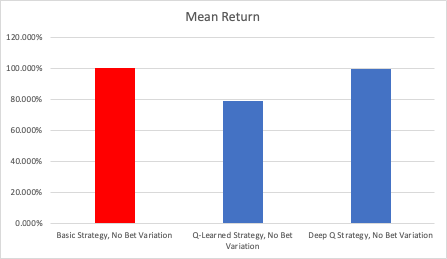
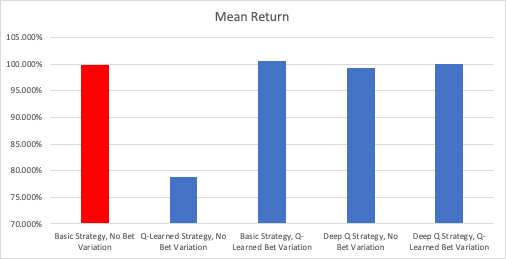
finished readme

diff --git a/test_blackjack.py b/test_blackjack.py
@@ -1,7 +1,5 @@
-from time import sleep
-
 from basic_strategy import BasicStrategy
-from blackjack import BlackjackGame
+from blackjack import BlackjackGame, BlackjackStrategy
 from deep_q import DeepQBlackjack
 from q_learning import QBet, QStrategyStdBet
 from scipy.stats import describe
@@ -24,65 +22,54 @@ game.play(num_hands=2)
 print("\n\n")
 
 print("As a benchmark, we implemented basic strategy, the best possible blackjack strategy.")
-print("Here are it's results over 5 100,000 hand games")
 print("Basic Strategy, No Bet Size Adjustment\n------")
 
 game = BlackjackGame(strategy=BasicStrategy(), verbose=False)
 results = []
 initial_bankroll = 1_000_000
-for _ in range(20):
+for _ in range(5):
     res = game.play(num_hands=100_000, initial_bankroll=initial_bankroll)
-    results.append((res[0] - initial_bankroll) / res[1])
-    print("Return:", (res[0] - initial_bankroll) / res[1])
-print(describe(results))
+    results.append(100 * (1 + ((res[0] - initial_bankroll) / res[1])))
+    print("Return: {:.4f}%".format(100 * (1 + ((res[0] - initial_bankroll) / res[1]))))
 
 print("As you can see, it is extremely close to break-even. This is possible due to a few quirks "
       "in our Blackjack implementation (we applied an approximation for split) as well as the "
       "fact that we pay blackjack out 3 to 2.")
 
+print(describe(results))
 print("\n\n")
 
-print("Next, we tried using Q-learning to select bet sizes based on the \"count\" of the shoe.")
-print("Here are it's results over 5 100,000 hand games")
-print("Basic Strategy, Q-Learned Bet Size Adjustment\n------")
+print("Basic Strategy, Q-Learned Bet Size Adjustment (trained for 120s)\n------")
 q_bet = QBet()
-q_bet.q_learn(4)
-game = BlackjackGame(strategy=q_bet, verbose=False, num_decks=4)
+q_bet.q_learn(2)
+game = BlackjackGame(strategy=q_bet, verbose=False, num_decks=2)
 results = []
 initial_bankroll = 1_000_000
-for _ in range(20):
+for _ in range(5):
     res = game.play(num_hands=100_000, initial_bankroll=initial_bankroll)
-    results.append((res[0] - initial_bankroll) / res[1])
-    print("Return:", (res[0] - initial_bankroll) / res[1])
-print(describe(results))
+    results.append(100 * (1 + ((res[0] - initial_bankroll) / res[1])))
+    print("Return: {:.4f}%".format(100 * (1 + ((res[0] - initial_bankroll) / res[1]))))
 
+print(describe(results))
 print("\n\n")
 
-print("Then, we tried to use Q-learning to see if it could come up with a strategy competitive "
-      "with the performance of basic strategy.")
-print("Here are it's results over 5 100,000 hand games")
-print("Q-Learned Strategy, No Bet Size Adjustment\n------")
-q_bet = QStrategyStdBet()
-q_bet.q_learn(4)
-game = BlackjackGame(strategy=q_bet, verbose=False, num_decks=4)
+print("Q-Learned Strategy (10 seconds), No Bet Size Adjustment\n------")
+q_learn = QStrategyStdBet()
+q_learn.q_learn(2)
+game = BlackjackGame(strategy=q_learn, verbose=False, num_decks=2)
 results = []
 initial_bankroll = 1_000_000
-for _ in range(20):
+for _ in range(5):
     res = game.play(num_hands=100_000, initial_bankroll=initial_bankroll)
-    results.append((res[0] - initial_bankroll) / res[1])
-    print("Return:", (res[0] - initial_bankroll) / res[1])
+    results.append(100 * (1 + ((res[0] - initial_bankroll) / res[1])))
+    print("Return: {:.4f}%".format(100 * (1 + ((res[0] - initial_bankroll) / res[1]))))
+
 print(describe(results))
-
-print("As you can see, it struggled to beat basic strategy. It's likely that the state space was "
-      "too large for Q-Learning to be effective.")
-
 dqn = DeepQBlackjack()
 results = []
 dqn.load_model("trained-dqn-model.h5")
 
 print("\n\n")
-print("Finally, we used Deep-Q learning with a neural network.")
-print("Here are it's results over 5 50,000 hand games")
 print("The model is pre-trained, and this runs very quickly on my M1 Max laptop, "
       "but for some reason, it takes forever to run on the zoo, perhaps due to worse hardware "
       "acceleration support.")
@@ -90,14 +77,34 @@ print("Deep-Q Strategy, No Bet Size Adjustment\n------")
 
 game = BlackjackGame(dqn, num_decks=2, verbose=False)
 initial_bankroll = 1_000_000
-for _ in range(20):
+for _ in range(5):
     res = game.play(num_hands=100_000, initial_bankroll=initial_bankroll)
-    results.append((res[0] - initial_bankroll) / res[1])
-    print("Return:", (res[0] - initial_bankroll) / res[1])
+    results.append(100 * (1 + ((res[0] - initial_bankroll) / res[1])))
+    print("Return: {:.4f}%".format(100 * (1 + ((res[0] - initial_bankroll) / res[1]))))
+
+print(describe(results))
+print("\n\n")
+
+
+class Endboss(BlackjackStrategy):
+    def select_action(self, hand, shoe):
+        return dqn.select_action(hand, shoe)
+
+    def select_bet_size(self, shoe):
+        return q_bet.select_bet_size(shoe)
+
+
+endboss = Endboss()
+game = BlackjackGame(endboss, num_decks=2, verbose=False)
+initial_bankroll = 1_000_000
+results = []
+print("Deep-Q Strategy, Q-Learned Bet Size Adjustment\n------")
+for _ in range(5):
+    res = game.play(num_hands=50_000, initial_bankroll=initial_bankroll)
+    results.append(100 * (1 + ((res[0] - initial_bankroll) / res[1])))
+    print("Return: {:.4f}%".format(100 * (1 + ((res[0] - initial_bankroll) / res[1]))))
 print(describe(results))
 
-print("We were able to achieve results with greater than 99% return, nearly as good as basic "
-      "strategy.")
-print("This was our goal for the project!")
-print("To view the outputted strategy, as well as learn more about the project, check out our "
-      "readme!")
+print(
+    "If you haven't yet, check out our readme for analysis at "
+    "https://github.com/gbuchdahl/474-final-blackjack#readme")

diff --git a/q_learning.py b/q_learning.py
@@ -76,13 +76,13 @@ class QBet(BlackjackStrategy):
         shoe = Shoe(num_decks)
         prev_bet = None
         bets = [10, 50]
-        while time.time() - start < 60:
+        while time.time() - start < 120:
             count = int(shoe.get_count() / 5)
             hand = shoe.deal_hand()
             upcard = shoe.deal()
             if prev_bet is None:
                 prev_bet = 10
-            
+
             if count > 4:
                 count = 4
             elif count < -4:
@@ -100,7 +100,10 @@ class QBet(BlackjackStrategy):
                 if playable_hand.is_terminal():
                     reward = playable_hand.get_hand_reward()
                     self.Q_visits[key][bets.index(bet)] += 1
-                    self.Q_dict[key][bets.index(bet)] = ((self.Q_visits[key][bets.index(bet)] - 1) * self.Q_dict[key][bets.index(bet)] + reward) / self.Q_visits[key][bets.index(bet)]
+                    self.Q_dict[key][bets.index(bet)] = ((self.Q_visits[key][bets.index(bet)] - 1) *
+                                                         self.Q_dict[key][
+                                                             bets.index(bet)] + reward) / \
+                                                        self.Q_visits[key][bets.index(bet)]
 
     def select_bet_size(self, shoe: Shoe) -> Action:
         count = int(shoe.get_count() / 5)

diff --git a/README.md b/README.md
@@ -14,16 +14,21 @@ make test # run our test script which has examples of all our work
 
 ## Results
 
-| Model | Mean Return |
-|------------------------------------------|-------------|
-| Basic Strategy, No Bet Variation | 99.840%     |
-| Basic Strategy, Q-Learning Bet Variation | 98.568%     |
-| Q-Learned Strategy, No Bet Variation | 78.874%     |
-| Deep-Q Strategy, No Bet Variation | 99.337%     |
+| Model                                     | Mean Return |
+|-------------------------------------------|-------------|
+| Basic Strategy, No Bet Variation          | 99.840%     |
+| Q-Learned Strategy, No Bet Variation      | 78.874%     |
+| Basic Strategy, Q-Learning Bet Variation  | 100.659%    |
+| Deep-Q Strategy, No Bet Variation         | 99.337%     |
+| Deep-Q Strategy, Q-Learning Bet Variation | 100.104%    |
 
 ![img.png](img/returns.png)
 
-## Our Approach
+Notably, our model was able to learn how to beat the house at blackjack by counting cards,
+without us ever explicitly telling it how to do so. Instead, it derived bet sizes with Q-Learning
+and a strategy with Deep-Q learning. It didn't beat the house every run, but certainly many of them.
+
+## Our Approaches
 
 ### Benchmarking Against Basic Strategy
 
@@ -33,11 +38,11 @@ On our model, basic strategy performs extremely well: it's essentially breakeven
 ```bash
 Basic Strategy, No Bet Size Adjustment
 ------
-Return: -0.0039982268732996675
-Return: -0.0067421978174741085
-Return: 0.0003046551303923958
-Return: -0.0032714712049628915
-Return: -0.0015145448531587835
+Return: 99.7146%
+Return: 100.0874%
+Return: 100.0549%
+Return: 99.5568%
+Return: 99.6114%
 ```
 
 ### Q-Learning
@@ -48,7 +53,7 @@ At first, we attempted to use traditional Q learning to find optimal blackjack s
 However, the rate of convergence was exceptionally slow because of the high number of states (each
 upcard and hand sum comprise independent states).
 Q-learning gets relatively bad results on short runs, and even on long runs they were very
-unstable.
+unstable. It did not converge to a good strategy.
 For example, our output frequently said things such as to hit a 13 on 10, stand 14 on 10, and
 hit 15 on 10.
 The fact that Q-learning was unable to determine that these states are very similar made it seem
@@ -57,17 +62,29 @@ like an unappealing method.
 ```bash
 Q-Learned Strategy (10 seconds), No Bet Size Adjustment
 ------
-Return: -0.23262016061368812
-Return: -0.23298074780134062
-Return: -0.22952081266887847
-Return: -0.23371909881531192
-Return: -0.22904087767529097
+Return: 79.5991%
+Return: 79.8579%
+Return: 79.3563%
+Return: 79.9065%
+Return: 79.1135%
 ```
 
 We were also interested in using Q learning to find the optimal bet size at a given count, based on
 some given strategy. Here Q-learning worked pretty well because there weren't many states. In
 general, after a short amount of training it would say to bet high when the count was positive and
-bet low when it was negative. In some sense Q-learning here was a bit of overkill, the plot below
+bet low when it was negative.
+
+```bash
+Basic Strategy, Q-Learned Bet Size Adjustment (trained for 60s)
+------
+Return: 100.0122%
+Return: 100.3019%
+Return: 99.8649%
+Return: 100.1095%
+Return: 99.9464%
+```
+
+In some sense Q-learning here was a bit of overkill, as the plot below
 shows that the expected return is positive when count is positive and negative when it's negative --
 meaning that we should put more money on the line when the trend line is above zero. We were
 somewhat surprised to see that just at a count of 1, we expect to win money by playing, showing that
@@ -88,20 +105,38 @@ basic strategy, but it was rather consistent, and performed quite well. Training
 several hours, so we've included a successful pretrained model in `deep_q_model.h5`.
 
 ```bash
-Return: -0.001998724951324155
-Return: -0.0003178421097843828
-Return: -0.005168136714443219
-Return: -0.0003605645410528485
-Return: -0.006112553517082481
+Deep-Q Strategy, No Bet Size Adjustment
+------
+Return: 97.9128%
+Return: 98.8817%
+Return: 99.0695%
+Return: 97.9318%
+Return: 97.8873%
 ```
+
+Here is a visual representation of the model's strategy:
 
 ![deep_q](./img/deep_q_strategy.png)
 
-### Stacked Decks?
+### Deep Q-Learning with Bet Size Adjustment
 
-I spent some time experimenting to see if the Deep-Q model could be used to learn a better
-strategy against a stacked deck than a naive basic strategy would perform. Unfortunately, it
-was unable to out-compete the basic strategy, so I've left it out of the test script.
+Finally, we combined Deep Q learning for strategy with Q-learning for finding the bet size.
+This was able to beat the house semi-regularly!
+
+```bash
+Deep-Q Strategy, Q-Learned Bet Size Adjustment
+------
+Return: 100.5729%
+Return: 100.4999%
+Return: 99.6800%
+Return: 100.0661%
+Return: 99.7025%
+```
+
+## Conclusion
+
+Using a combination of Q-Learning and Deep Q-Learning, as well as counting cards, our model was
+able to perform extremely well at blackjack, figuring out its own strategy and bet sizes.
 
 ---
 
@@ -133,5 +168,3 @@ credit. If we had to:
 - Trey implemented QLearning, for bet sizing and action selection.
 - Trey also spent time looking into card counting, including plotting how counting affects returns.
 - Gabe implemented the Deep Q learning model.
-
-Again, we really did work together for most of the project, so it's hard to fairly assign credit.
